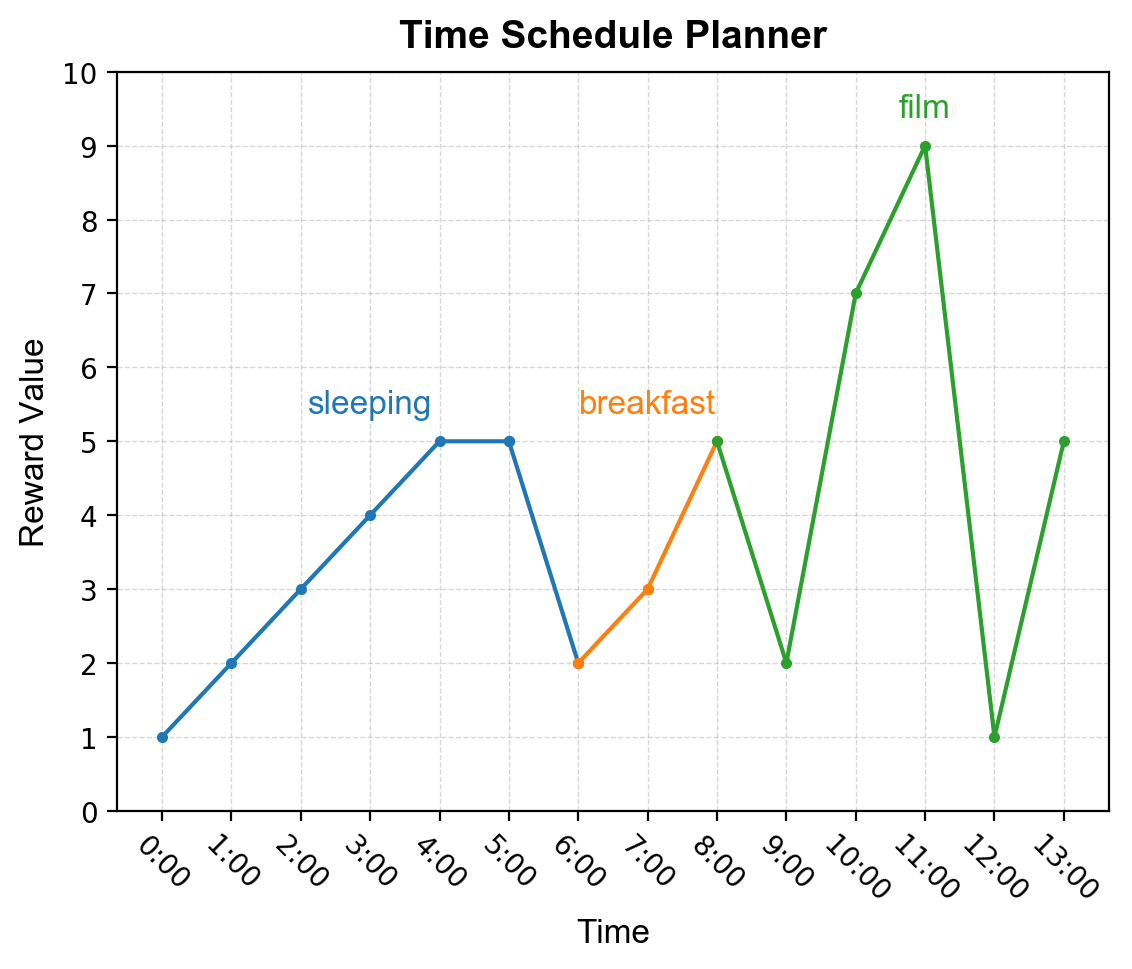
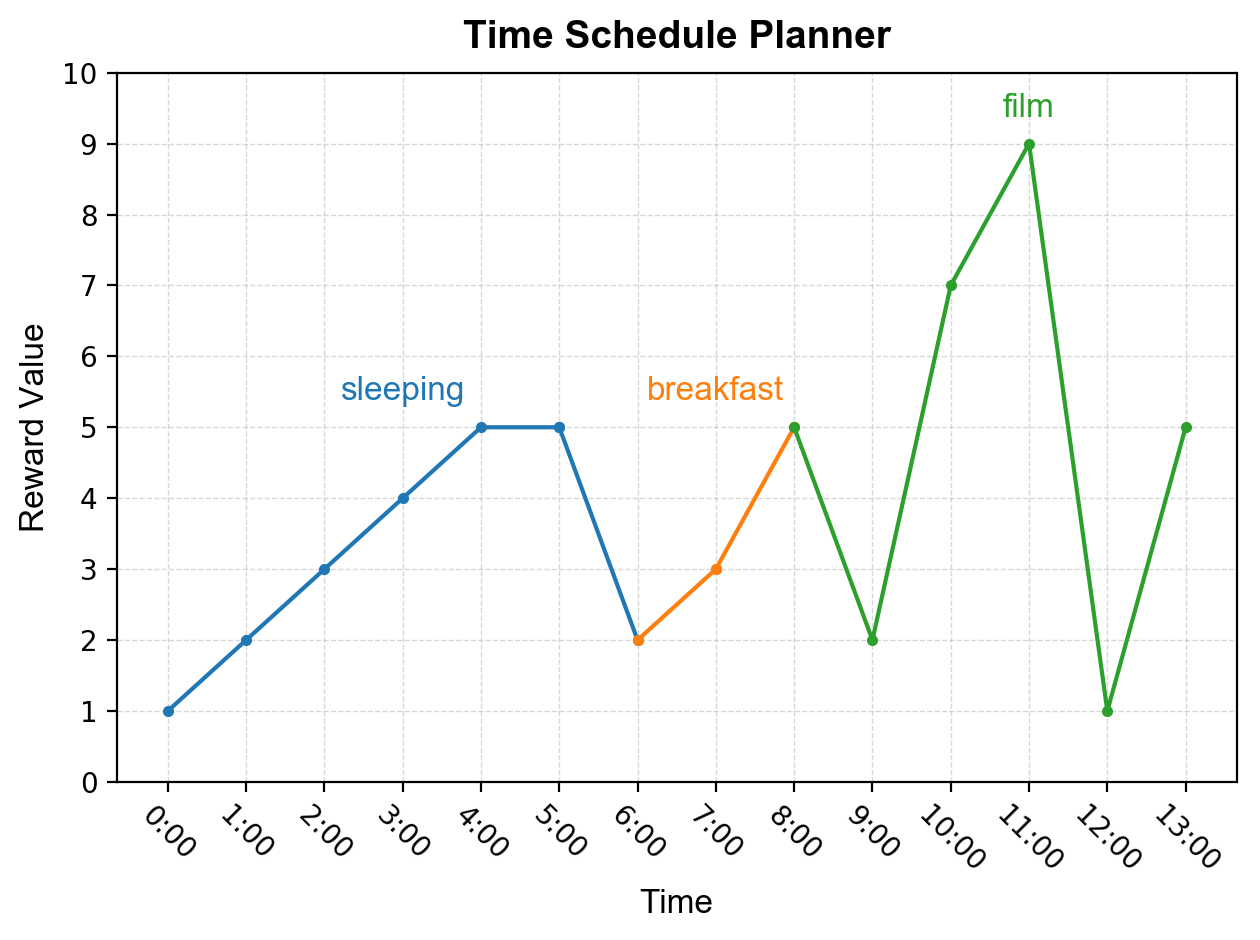
Update img of example_result

diff --git a/main.py b/main.py
@@ -441,10 +441,11 @@ def visualize_plan(plan, ax):
 todolist = inputYAML()
 plan={'sleeping':{'time':[0,6],'rwd':[1,2,3,4,5,5]},'breakfast':{'time':[6,8],'rwd':[2,3]},'film':{'time':[8,14],'rwd':[5,2,7,9,1,5]}}
 
-fig, ax = plt.subplots(dpi = 200)
+fig, ax = plt.subplots(dpi = 100)
 visualize_plan(plan, ax)
-# plt.show()
-fig.savefig("planner.png", dpi = 200, bbox_inches = 'tight')
+plt.tight_layout()
+plt.show()
+# fig.savefig("planner.png", dpi = 200, bbox_inches = 'tight')
 
 
 # # For input test and debug
